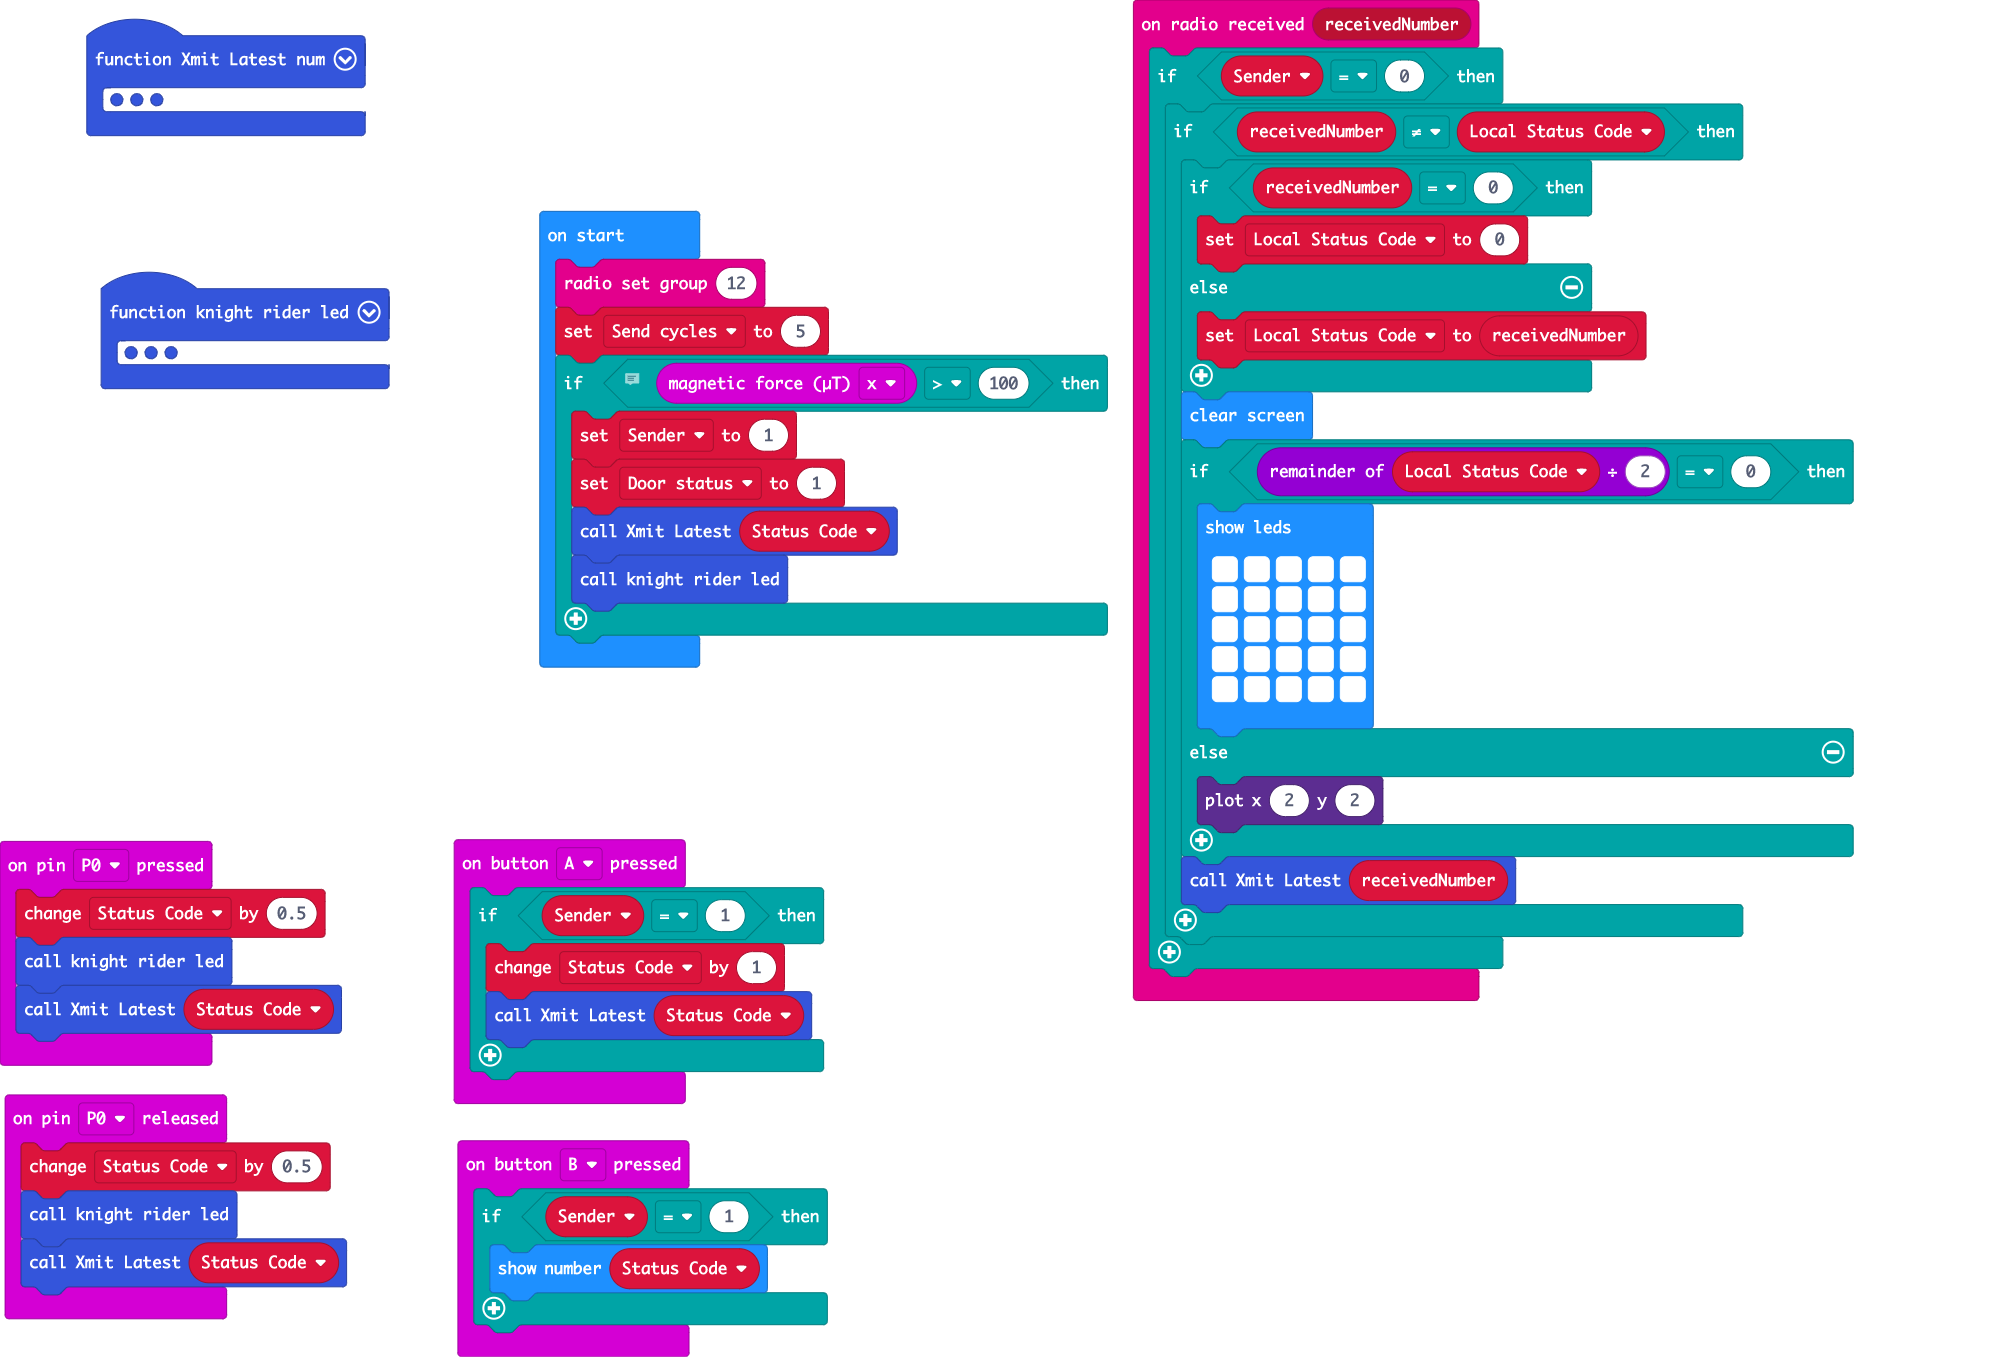
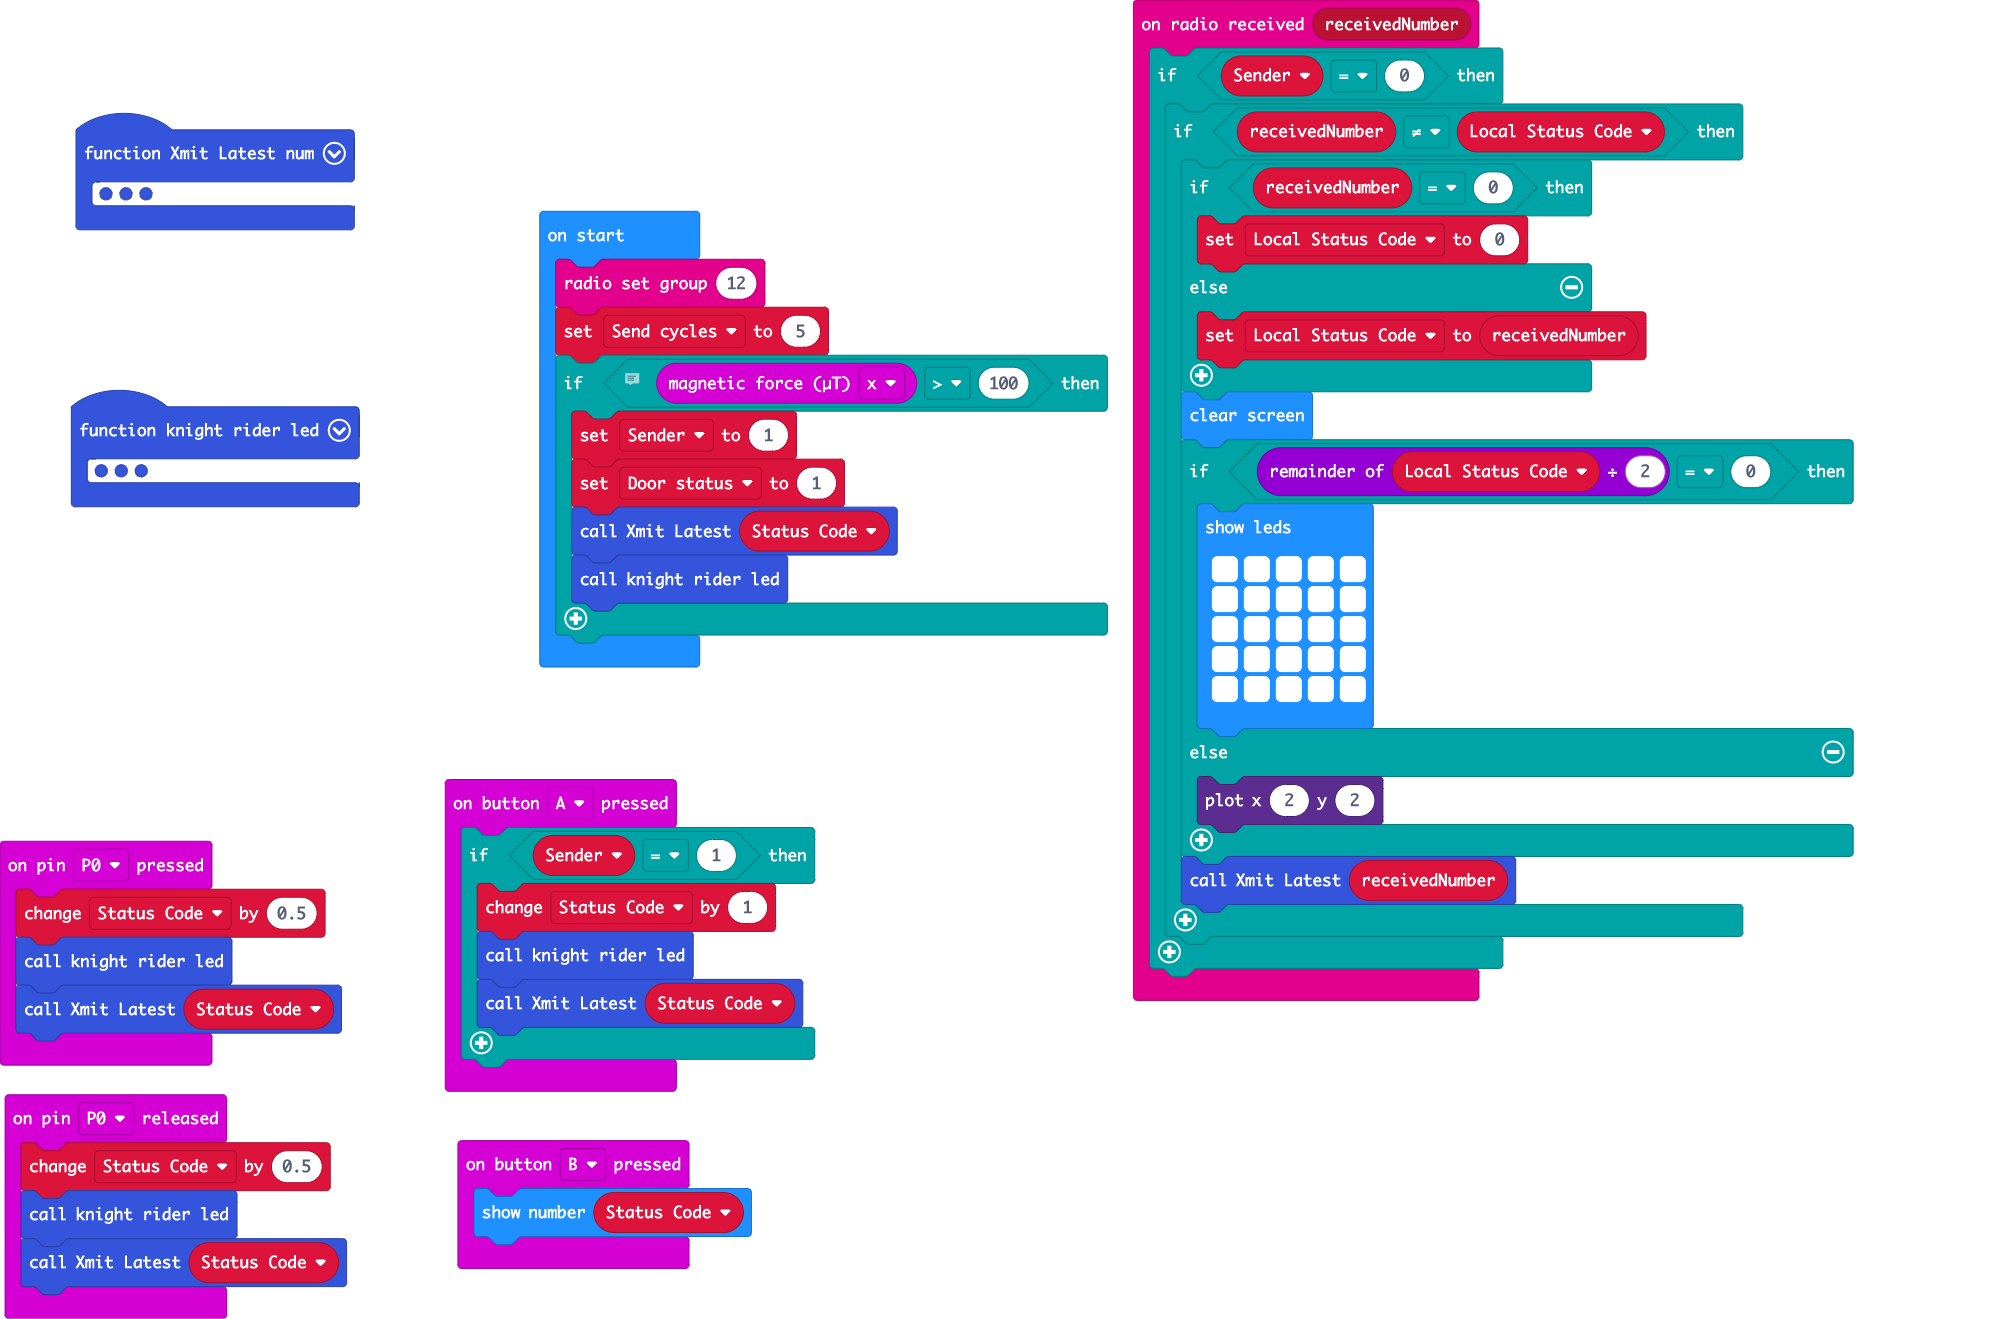
Update main.blocks, main.ts

diff --git a/main.ts b/main.ts
@@ -41,6 +41,7 @@ function Xmit_Latest (num: number) {
 input.onButtonPressed(Button.A, function () {
     if (Sender == 1) {
         Status_Code += 1
+        knight_rider_led()
         Xmit_Latest(Status_Code)
     }
 })
@@ -52,9 +53,7 @@ function knight_rider_led () {
     basic.clearScreen()
 }
 input.onButtonPressed(Button.B, function () {
-    if (Sender == 1) {
-        basic.showNumber(Status_Code)
-    }
+    basic.showNumber(Status_Code)
 })
 let Local_Status_Code = 0
 let Status_Code = 0
